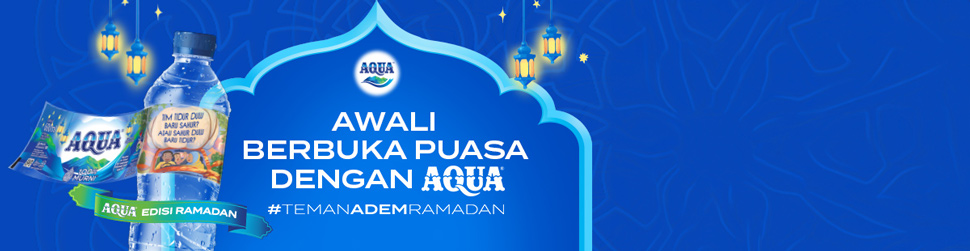
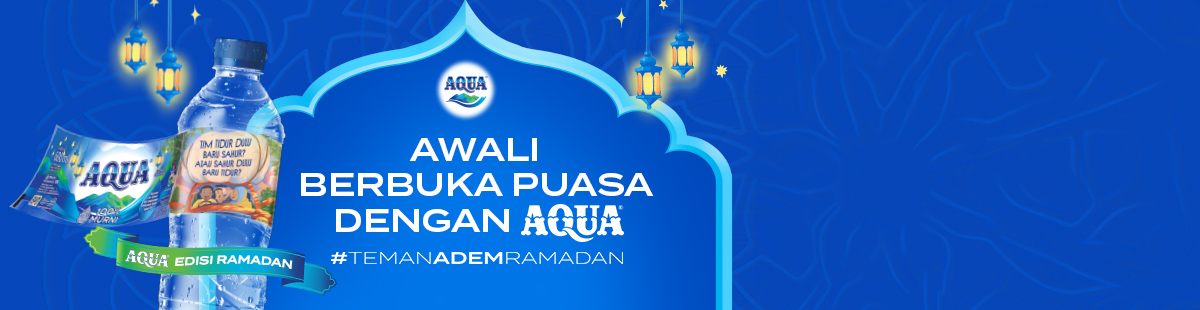
awdwa

diff --git a/ramadhan/2026/timesignal/aqua/src/index2.html b/ramadhan/2026/timesignal/aqua/src/index2.html
@@ -26,37 +26,45 @@
 <!--      <span class="sumber">Sumber : bimasislam.kemenag.go.id</span>-->
   </div>
 
-  <img id="banner-general" src="https://idnmedia.github.io/preview/ramadhan/2026/timesignal/aqua/src/320x320-default.jpg" class="banner-img active">
-  <img id="banner-berbuka" src="https://idnmedia.github.io/preview/ramadhan/2026/timesignal/aqua/src/320x320-berbuka.jpg" class="banner-img">
-  <img id="banner-berpuasa" src="https://idnmedia.github.io/preview/ramadhan/2026/timesignal/aqua/src/320x320-imsyak.jpg" class="banner-img">
+  <img id="banner-general" src="320x320-default.webp" class="banner-img active">
+  <img id="banner-berbuka" src="320x320-berbuka.webp" class="banner-img">
+  <img id="banner-berpuasa" src="320x320-imsyak.webp" class="banner-img">
 </div>
 
 
 
 <script src="https://code.jquery.com/jquery-3.7.1.min.js"></script>
 <script src="https://idnmedia.github.io/preview/ramadhan/2026/timesignal/aqua/src/data-jadwal.js"></script>
-<script src="https://idnmedia.github.io/preview/ramadhan/2026/timesignal/aqua/src/app.js"></script>
+<script src="app.js"></script>
 <script>
-// idnads_header_leaderboard (single)
-const data1 = parent.document.getElementById('idnads_header_leaderboard');
-if (data1) {
-    data1.style.height = "340px";
-}
+const interval = setInterval(() => {
 
-// Class css-1gyevap (bisa lebih dari satu)
-const data2 = parent.document.getElementsByClassName('css-1gyevap');
-if (data2.length > 0) {
-    Array.from(data2).forEach(el => {
-        el.style.height = "340px";
-    });
-}
+    // ID idnads_header_leaderboard
+    parent.document
+        .querySelectorAll('[id^="idnads_header_leaderboard"]')
+        .forEach(el => {
+            el.style.setProperty('height', '340px', 'important');
+        });
 
-// Semua id yang diawali div-gpt-ad-leaderboard
-const leaderboardAds = parent.document.querySelectorAll('[id^="div-gpt-ad-leaderboard"]');
+    // Class css-13bgxac
+    parent.document
+        .querySelectorAll('.css-13bgxac')
+        .forEach(el => {
+            el.style.setProperty('height', '340px', 'important');
+        });
 
-leaderboardAds.forEach(el => {
-    el.style.setProperty('max-height', '340px', 'important');
-});
+    // ID div-gpt-ad-leaderboard
+    const ads = parent.document.querySelectorAll('[id^="div-gpt-ad-leaderboard"]');
+
+    if (ads.length > 0) {
+        ads.forEach(el => {
+            el.style.setProperty('max-height', '340px', 'important');
+        });
+
+        clearInterval(interval); // stop kalau udah ketemu
+    }
+
+}, 200);
 </script>
 <script type="text/javascript">
 if(top!=self){

diff --git a/ramadhan/2026/timesignal/aqua/src/index.html b/ramadhan/2026/timesignal/aqua/src/index.html
@@ -28,9 +28,9 @@
 <!--      <span class="sumber">Sumber : bimasislam.kemenag.go.id</span>-->
   </div>
 
-  <img id="banner-general" src="https://idnmedia.github.io/preview/ramadhan/2026/timesignal/aqua/src/970x250-default.jpg" class="banner-img active">
-  <img id="banner-berbuka" src="https://idnmedia.github.io/preview/ramadhan/2026/timesignal/aqua/src/970x250-berbuka.jpg" class="banner-img">
-  <img id="banner-berpuasa" src="https://idnmedia.github.io/preview/ramadhan/2026/timesignal/aqua/src/970x250-imsyak.jpg" class="banner-img">
+  <img id="banner-general" src="970x250-default.webp" class="banner-img active">
+  <img id="banner-berbuka" src="970x250-berbuka.webp" class="banner-img">
+  <img id="banner-berpuasa" src="970x250-imsyak.webp" class="banner-img">
 </div>
 
 

diff --git a/ramadhan/2026/timesignal/aqua/src/app.js b/ramadhan/2026/timesignal/aqua/src/app.js
@@ -2,7 +2,7 @@
    VERSI BREAKDOWN BERDASARKAN JADWAL MANUAL YANG SUDAH DITENTUKAN
 ================================= */
 
-const RAMADAN_START = new Date(2026, 1, 19); // 19 Feb 2026
+const RAMADAN_START = new Date(2026, 10, 1); // 19 Feb 2026
 let currentRamadanDay = null;
 let currentSchedule = null;
 
